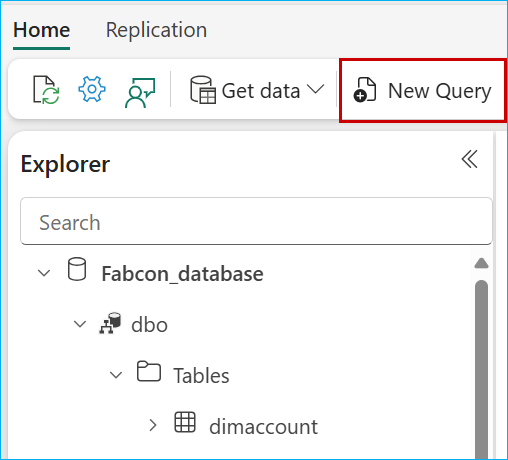
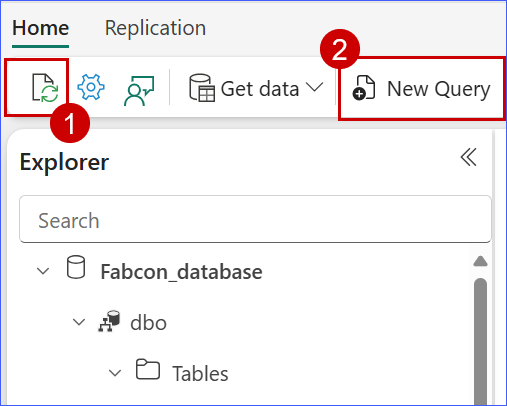
Updated screenshots and steps.

diff --git a/Workshop_Exercises/01 - Loading Data into SQL Database.md b/Workshop_Exercises/01 - Loading Data into SQL Database.md
@@ -27,7 +27,19 @@ In this task, you will use **Dataflow Gen2** to ingest data and efficiently copy
 
 ![alt text](../media/image-1.png)
 
-4. If prompted to stay signed in, click on **Yes**.
+4. Enter your **current password**, then enter and confirm your **new password**, and click **Sign in** to proceed.
+
+![alt text](../media/h12.png)
+
+5. If you see a message stating, "More information required," click **Next** to proceed.
+
+![alt text](../media/h13.png)
+
+6. The system will prompt you to set up Microsoft Authenticator, click **Skip setup** skip this step.
+
+![alt text](../media/h14.png)
+
+7. If prompted to stay signed in, click on **Yes**.
 
 ![alt text](../media/image-2.png)
 
@@ -37,32 +49,35 @@ In this task, you will use **Dataflow Gen2** to ingest data and efficiently copy
 
 > **Note:** If you see the following screen, continue with the following steps or directly move to step number **8**.
 
-5. Click on the **Continue** button.
+8. Click on the **Continue** button.
 
 ![alt text](../media/image-4.png)
 
-6. Click on the **Business phone number** textbox and type a 10-digit number ```1230000849```. Click on the **Get Started** button.
+9. Click on the **Business phone number** textbox and type a 10-digit number ```1230000849```. Click on the **Get Started** button.
 
 ![alt text](../media/image-5.png)
 
-7. Again, click on the **Get Started** button.
+10. Again, click on the **Get Started** button.
 
 ![alt text](../media/image-6.png)
 
 > **Note:** Wait for the Power BI workspace to load and close the top bar for a better view.
 
-8. From the left navigation pane, click on **Workspaces** and then the **+ New workspace** button.
+11. From the left navigation pane, click on **Workspaces** and then the **+ New workspace** button.
 
 ![alt text](../media/image-7.png)
 
-9. In the **Name** field, enter ``Fabcon``,followed by a unique suffix (e.g., FabconJD23 using your initials). Validate the availability of the name, then click **Apply**.
+12. In the **Name** field, enter ``Fabcon``,followed by a unique suffix (e.g., FabconJD23 using your initials). Validate the availability of the name, then expand **Advanced Settings**.
 
 > **Note:** It is very Important to use the workspace name provided above in the lab for a seamless experience.
 
 > **Note:** If the name is already taken, refresh the page and check again. A workspace with that name may already be created. If so, add a different suffix until the name is available.
 
-<img src="../media/f46.png" width="300" height="300">
+![](../media/h15.png)
 
+13. Enable **Fabric capacity**, select the **Capacity** from the dropdown, and click **Apply** to proceed.
+
+![](../media/h16.png)
 
 > **Note:** Wait for the Power BI Workspace to load.
 <!--
@@ -98,7 +113,7 @@ In this task, you will use **Dataflow Gen2** to ingest data and efficiently copy
 
 <img src="../media/h4.png" width="650" height="300">
 
-3. Click on **Create** button.
+3. If prompted, click the **Create** button otherwise, proceed to the next step.
 
 ![](../media/dfgen2.2.png)
 
@@ -135,7 +150,7 @@ In this task, you will use **Dataflow Gen2** to ingest data and efficiently copy
 
 <img src="../media/dim_products1u.png" width="700" height="300">
 
-
+<!--
 10. Click on the ``Suppliers`` table, select the **Add data destination** option from the ribbon, then select **SQL Database** from the list.
 
 <img src="../media/dim_products2u.png" width="700" height="300">
@@ -156,14 +171,15 @@ In this task, you will use **Dataflow Gen2** to ingest data and efficiently copy
 14. For ``Website_Bounce_rate`` and ``inventory`` tables perform steps **8-11** to select the destination.
 
 >**Note:** Please ensure to select the destination for all the tables before publishing the dataflow.
+-->
 
-15. Click on the **Publish** button.
+10. Click on the **Publish** button.
 
 ![alt text](../media/f21.png)
 
 >**Note:** Wait for the Dataflow to complete, it will take 2-3 minutes.
 
-16. Click on the **Bell** icon at the top right of the screen to verify the status of the Dataflow Gen2.
+11. Click on the **Bell** icon at the top right of the screen to verify the status of the Dataflow Gen2.
 
 ![alt text](../media/h1.png)
 
@@ -242,7 +258,7 @@ For this workshop, the **On-Premises Data Gateway** is already provisioned for y
 1. Select the **Load to new table** radio button and and wait for the **column mapping** to appear.
 2. Click on the **Next** button.
 
-![](../media/datapipeline13.png)
+![](../media/h18.png)
 
 3. Under Options, ensure that **Start data transfer immediately** remains **enabled** (default setting).
 

diff --git a/Workshop_Exercises/03 - Data Enrichment.md b/Workshop_Exercises/03 - Data Enrichment.md
@@ -89,7 +89,7 @@ Now, this is something exciting! This section shows how easy it is to create Sho
 
 11. Click the **data** directory checkbox and click on the **Next** button.
 
-![task-wb6.png](../media/f4.png)
+![task-wb6.png](../media/h17.png)
 
 12. Click on the **Create** button.
 
@@ -254,6 +254,24 @@ Let's schedule the pipeline to reduce manual effort and ensure data is always up
  3. Click on **Connection strings**, go to **JDBC** tab, copy the **JDBC URL** and save it separately to use later.
  
  ![](../media/task_3.2.0.2.png)
+
+#### Activity: Adding the requried Service Principal to the workspace.
+ 
+1. Navigate back to workspace and click on **Manage Access** in the top right corner of the workspace.
+ 
+   ![](../media/new6u.png)
+ 
+2. Click on **+ Add People or Groups**.
+ 
+   ![](../media/image8u.png)
+ 
+3. In the **Add People** window, enter ``sp-fabcon-lab``, select **Admin access**, and click **Add** button.
+   
+   ```
+   sp-fabcon-lab
+   ```
+ 
+   ![](../media/image9u.png)
 
 #### Activity: Create a Notebook in the Microsoft Fabric workspace and process data
 

diff --git a/Workshop_Exercises/02 - Introduction to Copilot for SQL Database.md b/Workshop_Exercises/02 - Introduction to Copilot for SQL Database.md
@@ -14,7 +14,7 @@ In this exercise, you will use **Copilot** to assist with T-SQL queries, includi
 
 ![](../media/database2.png)
 
-3. Click on the **New Query** icon.
+3. Click on the **Refresh** button then click on the **New Query** icon.
 
 ![](../media/database3.png)
 
